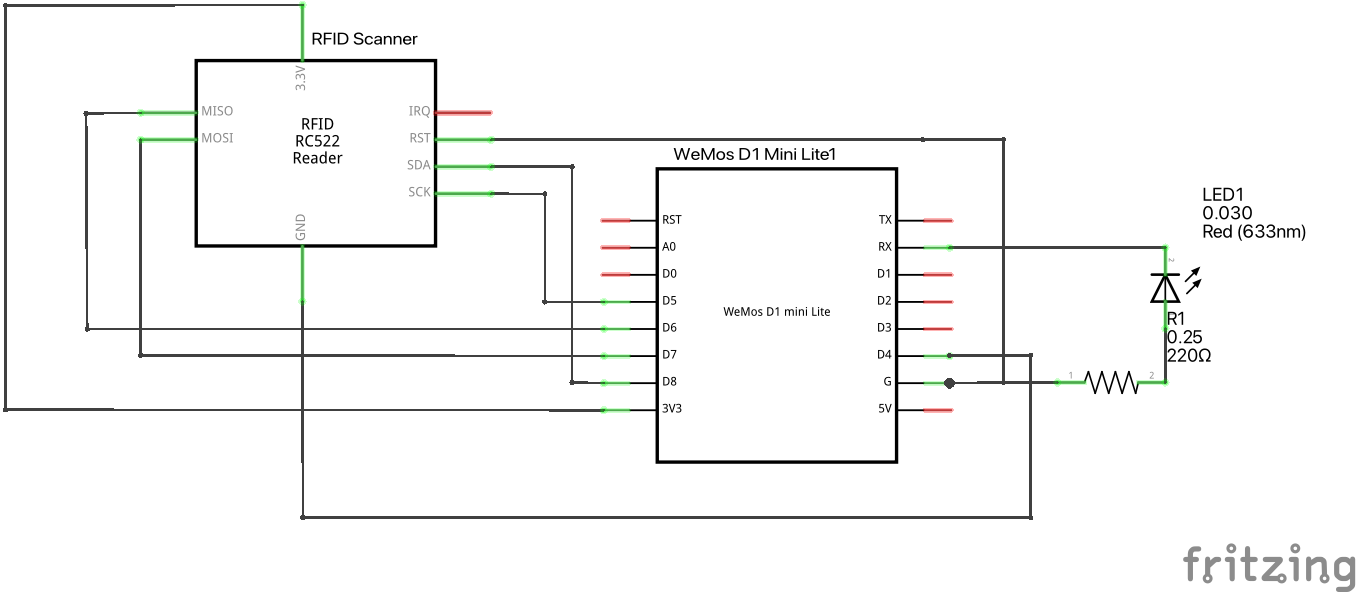
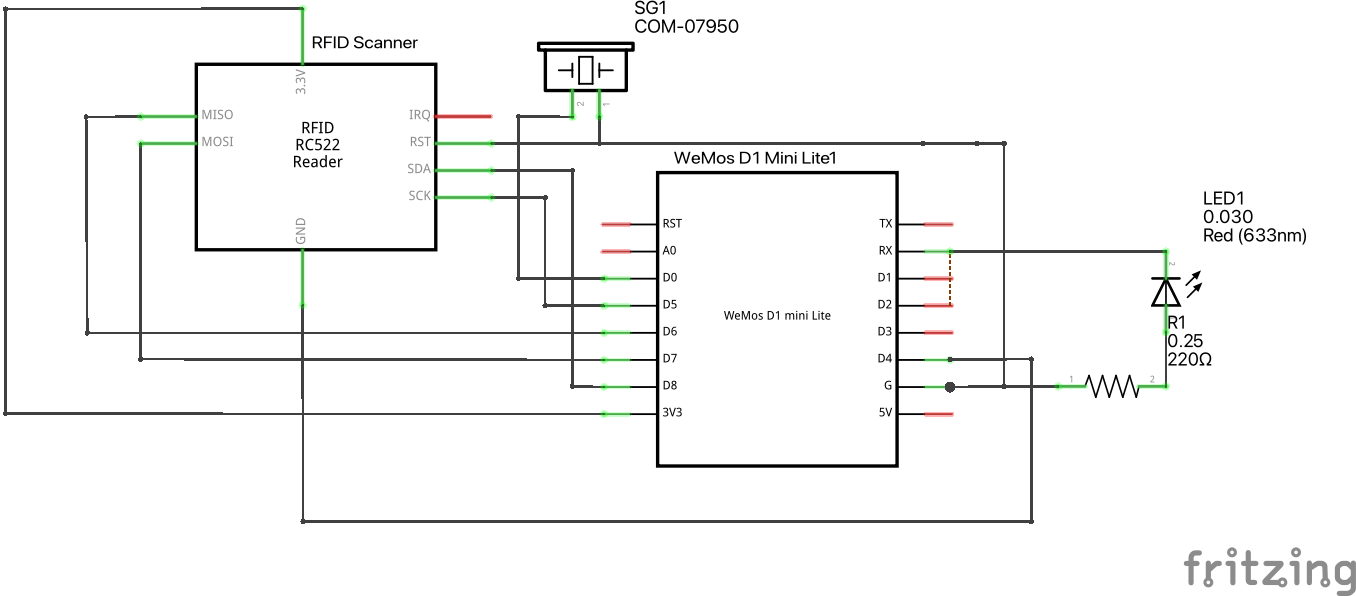
added a buzzer to the rfid card scanner, and included necessary fritzing schematics

diff --git a/embedded/RFID-RC522/src/main.cpp b/embedded/RFID-RC522/src/main.cpp
@@ -2,7 +2,8 @@
 #include <MFRC522.h>
 #define SS_PIN 15
 #define RST_PIN 2
-#define LED_PIN 3
+#define LED_PIN 4
+#define BUZZER_PIN 16
 
 MFRC522 mfrc522(SS_PIN, RST_PIN);
 
@@ -12,6 +13,8 @@ void setup() {
   mfrc522.PCD_Init();   // Initiate MFRC522
   pinMode(LED_PIN, OUTPUT);  // Set LED pin as output
   digitalWrite(LED_PIN, LOW); // Ensure LED is off initially
+  pinMode(BUZZER_PIN, OUTPUT);
+  tone(BUZZER_PIN, 1000, 2000);
 }
 
 bool cardScanned = false;  // Flag to check if card has been scanned
@@ -58,9 +61,15 @@ void loop() {
   
   // Turn on the LED to indicate the card is being processed/
   // Keep led on for a seconds
+  // Turn on Buzzer
+  tone(BUZZER_PIN, 523); // C4
+  delay(100);
+  noTone(BUZZER_PIN);
+  tone(BUZZER_PIN, 784); // G4
+  delay(100);
+  noTone(BUZZER_PIN);
   digitalWrite(LED_PIN, HIGH);
   delay(1000);
-
   // Halt PICC to prevent repeated scans until the card is removed
   mfrc522.PICC_HaltA();
 }
